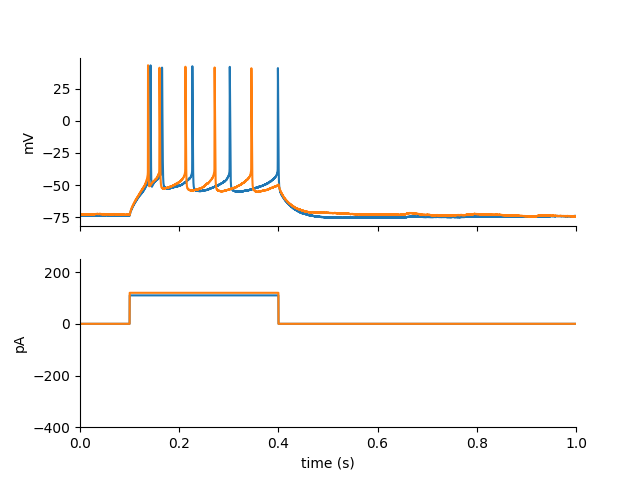
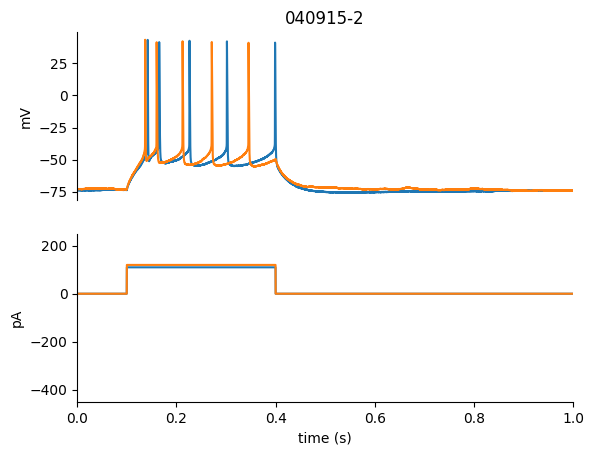
Fixed reb_delta_t annotation. Updated images for README.

diff --git a/neurospyke/response.py b/neurospyke/response.py
@@ -514,6 +514,7 @@ class Response(object):
         with self.plot_respons()
         """
         self.calc_or_read_from_cache('reb_delta_t')
+
         # These two values should be in cache when 'reb_delta_t' is in cache.
         closest_pnt20 = self._cache['closest_pnt20']
         closest_pnt80 = self._cache['closest_pnt80']
@@ -534,13 +535,16 @@ class Response(object):
                     arrowprops=dict(arrowstyle="<->"))
 
             # Add text for the arrows, at the middle point of both
-            xmin, xmax = plt.xlim();
-            ymin, ymax = plt.ylim();
+            xmin, xmax = ax1.get_xlim();
+            ymin, ymax = ax1.get_ylim();
             ax1.annotate(r'$\Delta$t', 
-                    xy=((reb_calc_times.iloc[0]+reb_calc_times.iloc[-1])/2, 
-                        reb_calc_data.iloc[0]-.05*(ymax-ymin)), ha='center')
-            ax1.annotate(r'$\Delta$amplitude', xy=(reb_calc_times.iloc[-1] + .02*(xmax-xmin), 
-                (reb_calc_data.iloc[0]+reb_calc_data.iloc[-1])/2 ), va='center')
+                xy=((reb_calc_times.iloc[0]+reb_calc_times.iloc[-1])/2, 
+                    reb_calc_data.iloc[0]-.08*(ymax-ymin)), 
+                ha='center')
+            ax1.annotate(r'$\Delta$amplitude', 
+                xy=(reb_calc_times.iloc[-1] + .02*(xmax-xmin), 
+                (reb_calc_data.iloc[0]+reb_calc_data.iloc[-1])/2 ), 
+                va='center')
         if filepath:
             plt.savefig(filepath)
         else:

diff --git a/tests/test_response.py b/tests/test_response.py
@@ -5,11 +5,13 @@ from neurospyke.utils import load_cells
 import numpy as np
 import pandas as pd
 
-data_dir_path1 = "tests/data/initial_examples/*.mat"
-image_save_path = "tests/data/images/"
 
-cells1 = load_cells(data_dir_path1)
-query1 = Query(cells1); query1.run()
+# load cells
+data_dir_path = "tests/data/initial_examples/*.mat"
+cells = load_cells(data_dir_path)
+
+# run query, select cells to exampe
+query1 = Query(cells); query1.run()
 cell1 = query1.cells[0]; cell2 = query1.cells[1]
 
 # response with 5 APs in response to a current injection
